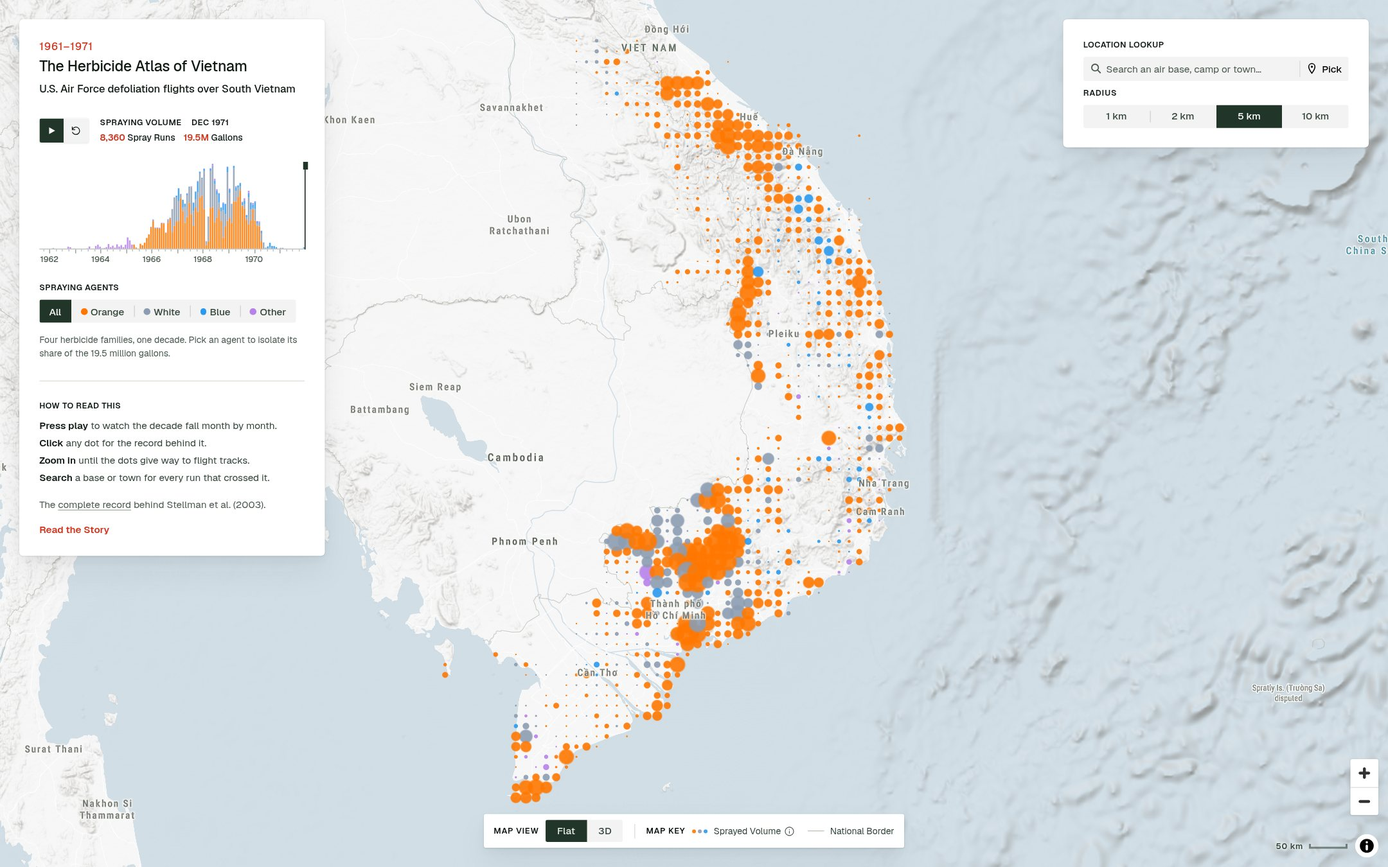
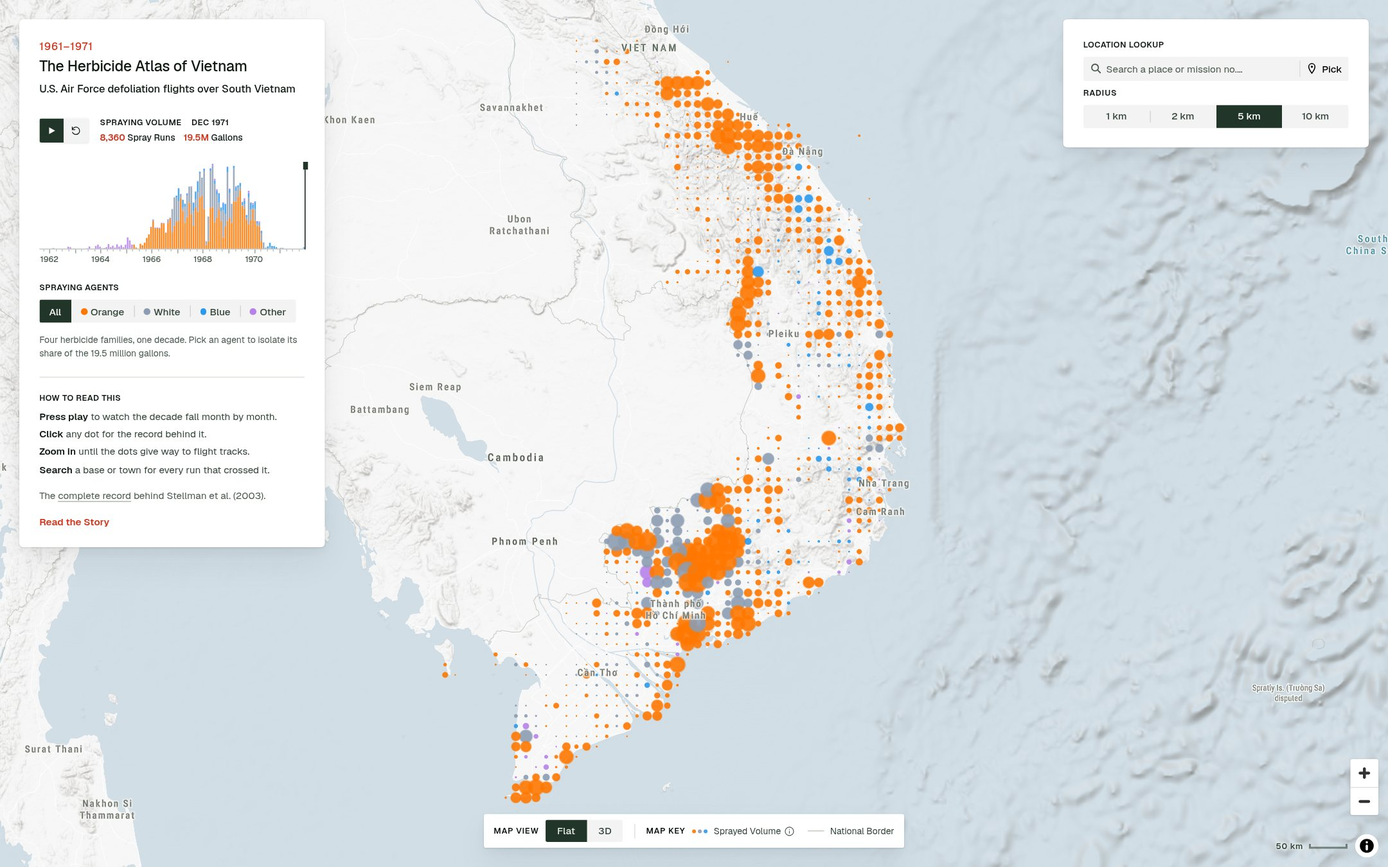
Methods paper: the per-mission spread and the caveat are applied
Master now spreads each mission's volume across every track it flew
(#185), so the paper stops describing that as a pending correction.
Section 4.2 describes the build as it ships, 4.3 records what changed
and by how much, Tables 3 to 5 and Figure 1 carry the recomputed
numbers (59% to move at 3 km, 63% of dosed cells read as zero, ±14%
envelope; 2,181 runs, 37%, 526 / 1,018 cells, 496 rings), the heat
reference is 1,925 gallons, and Section 8 records the old caveat and
its replacement. Section 6.6 gains the mission search. Atlas figures
re-captured on the merged build; Figure 5 shows the corrected caveat.

Claude-Session: https://claude.ai/code/session_0162ZbwK7cUKGE1rpfdzmk7Z

diff --git a/docs/methods-paper.md b/docs/methods-paper.md
@@ -12,11 +12,11 @@ Source and analysis scripts: <https://github.com/Cypherixc/remedial-vietnam>.
 
 ## Abstract
 
-*A Decade of Rain* is a scroll-driven narrative of Operation Ranch Hand, and *The Herbicide Atlas of Vietnam* is an interactive explorer of the same record: a playable decade, three zoom-dependent encodings of the spray volume, an agent filter, and a place lookup that returns the individual runs that passed within a chosen radius. Both are drawn from one dataset, the HERBS file as republished in Andrew Stellman's open `hea-v` repository, pinned to a single commit.
+*A Decade of Rain* is a scroll-driven narrative of Operation Ranch Hand, and *The Herbicide Atlas of Vietnam* is an interactive explorer of the same record: a playable decade, three zoom-dependent encodings of the spray volume, an agent filter, and a lookup that returns the individual runs that passed within a chosen radius of a place, or the runs of a given HERBS mission number. Both are drawn from one dataset, the HERBS file as republished in Andrew Stellman's open `hea-v` repository, pinned to a single commit.
 
-This note documents how that record becomes a picture. It has one substantive finding. The HERBS file books each mission's entire volume against a single row, the first waypoint of its first run, while recording the aircraft's track as a chain of further waypoints; the median run is an 11 km polyline. A map drawn directly from the file's fields therefore places a run's whole volume in the one cell containing one end of it. Measured over the whole record, turning that "booked" field into one in which the volume is spread along the flown track requires physically relocating 58% of all gallons at a 3 km cell, and leaves 59% of cells that received herbicide reading as zero. Within the family of readings the record itself admits (the herbicide fell somewhere along the recorded track) the answer is stable to about ±15% at 3 km under rate profiles far more extreme than an aircraft is likely to have flown; the booked reading sits roughly four times outside that envelope. Both shipped surfaces therefore draw the record as lines, with totals conserved to the gallon.
+This note documents how that record becomes a picture. It has one substantive finding. The HERBS file books each mission's entire volume against a single row, the first waypoint of its first run, while recording the aircraft's track as a chain of further waypoints; the median run is an 11 km polyline. A map drawn directly from the file's fields therefore places a mission's whole volume in the one cell containing one end of its first track. Measured over the whole record, turning that "booked" field into one in which the volume is spread along the flown tracks requires physically relocating 59% of all gallons at a 3 km cell, and leaves 63% of cells that received herbicide reading as zero. Within the family of readings the record itself admits (the herbicide fell somewhere along the recorded track) the answer is stable to about ±14% at 3 km under rate profiles far more extreme than an aircraft is likely to have flown; the booked reading sits roughly four times outside that envelope. Both shipped surfaces therefore draw the record as lines, with totals conserved to the gallon.
 
-The note also records the georeferencing, the run reconstruction, every encoding constant, the checks that hold them together, and the limits of what the maps can be asked. It closes with the specific questions we would value your judgement on, including two we found while writing it: the tape's own documentation books volume per mission rather than per spray track, which the current pipeline does not yet exploit (a 4.8% correction at 3 km), and the file contains helicopter and ground records that one of the Atlas's caveats currently denies.
+The note also records the georeferencing, the run reconstruction, every encoding constant, the checks that hold them together, and the limits of what the maps can be asked. It closes with the specific questions we would value your judgement on, including two we found while writing it and have since acted on: the tape's own documentation books volume per mission rather than per spray track, so the pipeline now spreads each mission's load across every track it flew (a 4.8% correction at 3 km, Section 4.3), and the file contains helicopter and ground records that one of the Atlas's caveats denied until this draft (Section 8).
 
 ---
 
@@ -104,7 +104,7 @@ The 1985 layout says the same in the tape's own words. Columns 60 and 61 "identi
 
 The layout defines the gallons field (columns 29 to 33) as the "number of gallons of herbicide dispensed during the mission cited": a per-mission quantity. The tape carries no per-track volume. Three further measurements in the file say the same. First, the 2,132 runs that have no `1A` row (the second and later runs of multi-run missions) carry no volume, all of them. Second, among fixed-wing missions with a recorded aircraft count, the median volume per aircraft is 1,000 gallons for missions of one, two, four and six runs, and 925 and 967 for three and five (n = 5,896 missions; overall p25 900, p75 1,000; median three aircraft). A C-123's spray tank held 1,000 gallons. Third, a worked example: Mission 136, 18 January 1965, Agent Purple, two aircraft, is recorded as Run 138 (legs 1A and 1B; 2,000 gallons on 1A) and Run 139 (legs 2A and 2B; 0 gallons).
 
-So the file books a mission's whole load once, against the first waypoint of its first track, which is what its documentation says it does. The 2,913 runs with no volume anywhere are of two kinds: 2,132 later runs of multi-run missions whose load is on the mission's lead row, and 781 lead runs that record a flight and no gallons. **8,360 runs carry volume**, and that is the count the Atlas shows as *Spray Runs*.
+So the file books a mission's whole load once, against the first waypoint of its first track, which is what its documentation says it does. The 2,913 runs with no volume anywhere are of two kinds: 2,132 later runs of multi-run missions whose load is on the mission's lead row, and 781 lead runs that record a flight and no gallons. **8,360 missions carry volume**, one lead row each, and that is the count the Atlas shows as *Spray Runs* (Section 8). On the map, after the per-mission spread of Section 4.3, 10,205 of the 11,273 runs carry a share of it.
 
 This booking is an accounting convention. It is not a statement about where herbicide landed, and a map drawn straight from these fields inherits the convention without saying so. Section 5 measures what that costs.
 
@@ -130,17 +130,19 @@ Splitting at a leg-number change affects 176 runs. Section 2.3 now suggests that
 
 ### 4.2 Spreading the volume
 
-The source carries no per-waypoint quantity, so volume can only be spread along a track geometrically. We spread each run's gallons along its own segments **in proportion to length**, on the physical argument that an aircraft with the valve open lays down a roughly constant amount per kilometre. Each segment's share is rounded to a whole gallon; the build asserts that the gallons leaving by the two doors (spread along tracks, or parked on single-point records) equal the gallons that came in, to within one gallon per rounded segment. At the pinned commit the balance is 19,490,688 out against 19,490,690 in.
+The source carries no per-waypoint quantity, so volume can only be spread along a track geometrically. We spread each mission's gallons along all of the line tracks that mission flew **in proportion to length**, on the physical argument that an aircraft with the valve open lays down a roughly constant amount per kilometre, and that the spray system was calibrated to a rate per area rather than a share per track. Each segment's share is rounded to a whole gallon; the build asserts that the gallons leaving by the two doors (spread along tracks, or parked on single-point records) equal the gallons that came in, to within one gallon per rounded segment. At the pinned commit the balance is 19,490,688 out against 19,490,690 in.
 
-A run logged at several grid references but with no measurable length keeps its gallons split evenly by count across its points, with the remainder on the first. (An earlier version handed every such point the run's full volume; the guard above is what caught the 22,018-gallon double count.)
+A single-point record inside a mission that also flew line tracks has no length to take a share of and takes none (107 such points, 71,220 gallons, 0.37% of the record, now on their sibling lines). A mission with no measurable length at all keeps its gallons split evenly by count across its points, with the remainder on the first. (An earlier version handed every such point the run's full volume; the guard above is what caught the 22,018-gallon double count.)
 
-The quantity this yields, **gallons per kilometre**, is the first quantity in the record that is comparable *between* runs: a 40 km run and a 2 km run carrying the same load did very different things to the ground beneath them. Over the 7,047 segments that carry volume it runs p10 52, median 189, p90 485, maximum 9,074 gal/km. Over all 8,753 line segments including those with none, the distribution the stroke widths were set against, it is p25 36, median 162, p75 288, p90 442, p99 1,143.
+The quantity this yields, **gallons per kilometre**, is the first quantity in the record that is comparable *between* runs: a 40 km run and a 2 km run carrying the same load did very different things to the ground beneath them. Over the 8,514 segments that carry volume it runs p10 43, median 174, p90 393, maximum 9,074 gal/km. Over all 8,753 line segments including the 239 with none, the distribution the stroke widths were set against, it is p25 101, median 171, p75 263, p90 389, p99 871.
 
-### 4.3 A refinement found while writing this note: spreading per mission
+### 4.3 A correction found while writing this note: spreading per mission, not per run
 
-The pipeline spreads a *run's* gallons along that *run*. Section 2.4 says the gallons are booked per *mission*, on its first run. For the 1,434 missions with more than one run (15.7% of missions, carrying 3,260,414 gallons, 16.7% of the volume), the current reading therefore concentrates the mission's whole load on its first run and gives the later runs nothing, when by the same physical argument it should be spread along all of them. In those missions the run carrying the gallons is about half the mission's flown length (9,464 km of 19,259 km).
+Until this draft the pipeline spread a *run's* gallons along that *run*. Section 2.4 says the gallons are booked per *mission*, on its first run. For the 1,434 missions with more than one run (15.7% of missions, carrying 3,260,414 gallons, 16.7% of the volume), that reading concentrated the mission's whole load on its first run and gave the later runs nothing, when by the same physical argument it should be spread along all of them. In those missions the run carrying the gallons is about half the mission's flown length (9,464 km of 19,259 km), and 11% of all flown kilometres sat in a no-volume tier that the Atlas hides by default.
 
-We measured what the correction changes, with the same sampling scheme as Section 5 (`scripts/analyse-mission-spread.mjs`; Appendix C). Spreading per mission instead of per run moves **4.8%** of the volume at a 3 km cell, **2.4%** at 13 km and **1.2%** at 28 km; the number of 3 km cells with volume rises from 7,095 to 7,583 and the peak cell is unchanged (ratio 0.99). It is a real correction and a small one, an order of magnitude below the effect of the booking convention itself (58.8% at 3 km against per-mission spreading) and inside the sensitivity envelope of Section 5.4. It has not yet been applied to the shipped files. Now that the tape's own layout confirms the reading, we intend to apply it; Section 9, question 1 asks only whether spreading by length across a mission's tracks is the reading you would consider defensible.
+We measured what the correction changes, with the same sampling scheme as Section 5 (`scripts/analyse-mission-spread.mjs`; Appendix C). Spreading per mission instead of per run moves **4.8%** of the volume at a 3 km cell, **2.4%** at 13 km and **1.2%** at 28 km; the number of 3 km cells with volume rises from 7,095 to 7,583 and the peak cell is unchanged (ratio 0.99). It is a real correction and a small one, an order of magnitude below the effect of the booking convention itself (58.8% at 3 km against per-mission spreading) and inside the sensitivity envelope of Section 5.4.
+
+Now that the tape's own layout confirms the reading, it is applied: Section 4.2 describes the build as it now ships. On the map the line tracks with no volume fall from 1,706 (11,835 km) to 239 (2,193 km), 1,467 later tracks carry a share for the first time, and over the Zone D window of Figure 1 the number of runs drawn rises from 1,959 to 2,181. Mission 167, for instance, four tracks on 1 April 1965: 3,000 / 0 / 0 / 0 gallons becomes 627 / 627 / 899 / 846. We chose by-length over an equal split because the spray system metered a rate per area and track lengths inside a mission differ (longest to shortest, median 1.44, p90 4.1); the two splits differ by 1.3% of volume at 3 km. Section 9, question 1 asks whether this is the reading you would consider defensible.
 
 ---
 
@@ -152,8 +154,8 @@ Everything in this section is reproducible with `node scripts/analyse-binning.mj
 
 | | What it does | What it claims |
 |---|---|---|
-| **Booked at 1A** | the whole run's gallons in the cell holding its first waypoint | this is where the archive keeps its accounts |
-| **Spread along the run** | gallons per kilometre × length, distributed along the flown track | this is where the herbicide fell |
+| **Booked at 1A** | the whole mission's gallons in the cell holding the first waypoint of its first track | this is where the archive keeps its accounts |
+| **Spread along the run** | gallons per kilometre × length, distributed along every track the mission flew | this is where the herbicide fell |
 
 Both carry the identical total, 19.491 million gallons. Nothing is created or lost. **The disagreement between them is purely spatial.** A statement about a national or provincial total is unaffected by the choice; every statement about a *place* depends on it entirely.
 
@@ -169,13 +171,13 @@ For a cell size *d* we sample each run's track at intervals no larger than a thi
 
 | Cell | Cells with volume | Volume to move | Peak cell ratio |
 |---|---|---|---|
-| 1 km | 5,027 → 34,276 | 82% | 2.46× |
-| **3 km** | **3,033 → 7,101** | **58%** | **2.53×** |
-| 7 km | 1,793 → 2,697 | 42% | 1.90× |
-| **13 km** | **846 → 979** | **26%** | **1.11×** |
-| 28 km | 289 → 308 | 11% | 0.98× |
-| 56 km | 97 → 101 | 5% | 0.99× |
-| 111 km | 38 → 39 | 2% | 0.99× |
+| 1 km | 4,880 → 37,257 | 83% | 2.46× |
+| **3 km** | **2,960 → 7,620** | **59%** | **2.51×** |
+| 7 km | 1,761 → 2,835 | 43% | 1.91× |
+| **13 km** | **839 → 1,017** | **26%** | **1.11×** |
+| 28 km | 289 → 313 | 12% | 0.99× |
+| 56 km | 97 → 102 | 5% | 0.99× |
+| 111 km | 38 → 40 | 2% | 0.98× |
 
 The disagreement dies at the scale of a run. Above about 28 km a run stays inside its own cell and the booking convention stops mattering; below it, the convention decides the map. The consequence is the reverse of what a reader expects: the booked reading is nearly right on a thumbnail of the whole country and worst at the scale where someone looks closely.
 
@@ -183,15 +185,15 @@ The disagreement dies at the scale of a run. Above about 28 km a run stays insid
 
 | Cell | Mean | Mean abs. difference | Relative | Dosed cells read as 0 | More than 2× out | Spearman |
 |---|---|---|---|---|---|---|
-| 1 km | 466 | 762 | 163% | 86% | 97% | 0.09 |
-| **3 km** | **248** | **286** | **115%** | **59%** | **83%** | **0.33** |
-| 7 km | 163 | 137 | 84% | 35% | 65% | 0.57 |
-| 13 km | 113 | 58 | 51% | 15% | 41% | 0.81 |
-| 28 km | 83 | 19 | 23% | 6% | 18% | 0.95 |
-| 56 km | 64 | 7 | 10% | 4% | 9% | 0.98 |
-| 111 km | 41 | 2 | 4% | 3% | 3% | 0.99 |
+| 1 km | 430 | 714 | 166% | 88% | 97% | 0.11 |
+| **3 km** | **232** | **273** | **118%** | **63%** | **85%** | **0.34** |
+| 7 km | 156 | 134 | 86% | 39% | 70% | 0.56 |
+| 13 km | 109 | 57 | 53% | 19% | 46% | 0.80 |
+| 28 km | 82 | 19 | 24% | 8% | 20% | 0.95 |
+| 56 km | 63 | 7 | 11% | 5% | 9% | 0.98 |
+| 111 km | 40 | 2 | 4% | 5% | 5% | 0.99 |
 
-At 3 km, the Atlas's fine cell, the difference between the readings is larger than the quantity being mapped, and 59% of cells that received herbicide read as zero under the booked reading. The rank correlation is 0.33: the booked field does not merely misstate how much, it fails to order which place received more.
+At 3 km, the Atlas's fine cell, the difference between the readings is larger than the quantity being mapped, and 63% of cells that received herbicide read as zero under the booked reading. The rank correlation is 0.34: the booked field does not merely misstate how much, it fails to order which place received more.
 
 ### 5.4 The argument, given that there is no ground truth
 
@@ -203,15 +205,15 @@ Spreading along the run assumes a constant rate, which is an assumption. So we p
 
 | Cell | 2× front-loaded | 2× back-loaded | Middle-heavy | Ends-heavy | **Booked at 1A** |
 |---|---|---|---|---|---|
-| 3 km | 15% | 15% | 7% | 7% | **58%** |
+| 3 km | 14% | 14% | 7% | 7% | **59%** |
 | 13 km | 8% | 8% | 2% | 2% | **26%** |
-| 28 km | 3% | 3% | 1% | 1% | **11%** |
+| 28 km | 3% | 3% | 1% | 1% | **12%** |
 
-This is the finding. Within the family of readings the record admits, the answer is settled to about ±15% at 3 km under profiles far more extreme than anything Ranch Hand is likely to have flown. Booking everything at the first waypoint sits roughly four times outside that entire envelope. It is not one plausible reading among several: it lies outside the range of readings compatible with the aircraft having flown the track the record itself supplies, because it requires that eleven kilometres of a spraying run received nothing.
+This is the finding. Within the family of readings the record admits, the answer is settled to about ±14% at 3 km under profiles far more extreme than anything Ranch Hand is likely to have flown. Booking everything at the first waypoint sits roughly four times outside that entire envelope. It is not one plausible reading among several: it lies outside the range of readings compatible with the aircraft having flown the track the record itself supplies, because it requires that eleven kilometres of a spraying run received nothing.
 
-Figure 1 shows the two readings over one window, Zone D and Đồng Xoài, the densest linear structure in the record: 1,959 runs, the same 3 km cells and the same dot-area scale in both panels. In that window 36% of the volume fell in cells the booked reading shows as empty, and the booked reading's hottest cell is 3.1× hotter than any ground actually was (528 cells carrying volume, peak 95K gallons, against 1,009 cells and a peak of 30K).
+Figure 1 shows the two readings over one window, Zone D and Đồng Xoài, the densest linear structure in the record: 2,181 runs, the same 3 km cells and the same dot-area scale in both panels. In that window 37% of the volume fell in cells the booked reading shows as empty, and the booked reading's hottest cell is 3.1× hotter than any ground actually was (526 cells carrying volume, peak 95K gallons, against 1,018 cells and a peak of 31K).
 
-![Figure 1. The record as recorded (left), the volume booked at waypoint 1A (centre) and the volume spread along the run (right), Zone D and Đồng Xoài. Rings on the centre panel mark the 486 cells that were dosed and that reading leaves empty.](figures/binning-comparison.svg)
+![Figure 1. The record as recorded (left), the volume booked at the mission's first waypoint (centre) and the volume spread along the mission's tracks (right), Zone D and Đồng Xoài. Rings on the centre panel mark the 496 cells that were dosed and that reading leaves empty.](figures/binning-comparison.svg)
 
 ---
 
@@ -268,9 +270,9 @@ Hovering names a run's gallons and gallons per kilometre; clicking opens its car
 
 ### 6.4 The Story: a density field binned from the same lines
 
-The Story's field is built by `scripts/build-story-heat.mjs` from the line file into the same 0.03° cell the Atlas's fine tier uses, split by month because the Story's heat layer filters on the playhead and month is the resolution it steps in. The result is 21,711 (cell, month) points over 20,959 cells, carrying the record's total to the gallon, and *smaller* than the 24,604-waypoint file it replaced, because binning 8,753 runs into shared cells collapses more than sampling them adds. Each point sits at the volume-weighted centroid of the samples that made it, not at the cell's geometric centre: a point at the centre put the whole field on a lattice, and at the Story's deep zooms it rendered as graph paper; a cell clipped by one straight run now gets its point on that run.
+The Story's field is built by `scripts/build-story-heat.mjs` from the line file into the same 0.03° cell the Atlas's fine tier uses, split by month because the Story's heat layer filters on the playhead and month is the resolution it steps in. The result is 23,729 (cell, month) points over 22,930 cells, carrying the record's total to the gallon, and *smaller* than the 24,604-waypoint file it replaced, because binning 8,753 runs into shared cells collapses more than sampling them adds. Each point sits at the volume-weighted centroid of the samples that made it, not at the cell's geometric centre: a point at the centre put the whole field on a lattice, and at the Story's deep zooms it rendered as graph paper; a cell clipped by one straight run now gets its point on that run.
 
-The field is a MapLibre heatmap layer. Each point's weight is √(gallons / ref) clamped to [0, 1], with *ref* the 90th percentile of the cell-month totals, 2,068 gallons, derived at build time rather than typed so that most cells land in the ramp's working range and only the heaviest saturate; the square root is there for the same reason the dots take one, because a blob's visual weight goes with its area. The kernel radius is set from the data's resolution: the cell is 0.0217 × 2^z pixels at 11°N, and a kernel narrower than its sample spacing does not smooth, it draws the samples. The radius stops (3 px at zoom 5, 12 at 8, 46 at 10, 180 at 12) track 0.043 × 2^z, about two cells, which is what it took on the page for the field to read as continuous. The intensity ramp is nearly flat (0.80 at zoom 5 to 0.85 at 10): since the kernel now covers a fixed ground area, the number of points inside it does not change with zoom, so the intensity should not either. The colour ramp runs from transparent through `rgb(255,84,73)` to `rgb(214,54,40)` at full density, staying warm at the core rather than darkening to grey. Layer opacity is 0.8.
+The field is a MapLibre heatmap layer. Each point's weight is √(gallons / ref) clamped to [0, 1], with *ref* the 90th percentile of the cell-month totals, 1,925 gallons, derived at build time rather than typed so that most cells land in the ramp's working range and only the heaviest saturate; the square root is there for the same reason the dots take one, because a blob's visual weight goes with its area. The kernel radius is set from the data's resolution: the cell is 0.0217 × 2^z pixels at 11°N, and a kernel narrower than its sample spacing does not smooth, it draws the samples. The radius stops (3 px at zoom 5, 12 at 8, 46 at 10, 180 at 12) track 0.043 × 2^z, about two cells, which is what it took on the page for the field to read as continuous. The intensity ramp is nearly flat (0.80 at zoom 5 to 0.85 at 10): since the kernel now covers a fixed ground area, the number of points inside it does not change with zoom, so the intensity should not either. The colour ramp runs from transparent through `rgb(255,84,73)` to `rgb(214,54,40)` at full density, staying warm at the core rather than darkening to grey. Layer opacity is 0.8.
 
 Eight nodes drive the field, each with a camera and a playhead date up to which the field is shown cumulatively: the test sprays (1961–62, shown as labelled points because the 1961 rows carry no volume), War Zone D (to August 1966), War Zone C and the Iron Triangle (to October 1967), the mangroves (to September 1968), the A Sầu valley (to August 1969, zoom 8.6), the three hotspot airbases (to January 1971, zoom 9.6), the reckoning (the whole decade), and a final node that switches the same map to the flight tracks as a handover to the Atlas.
 
@@ -282,9 +284,11 @@ Dates are epoch day numbers with 1 January 1961 as day 1, matching `hea-v`'s own
 
 ### 6.6 The place lookup
 
-A reader can search a place or drop a pin, choose a radius of 1 to 10 km (default 5), and read the runs whose recorded geometry passed within it (`src/components/lookup.ts`). Distance is point-to-geometry: for a track, the minimum distance from the query point to any of its segments, because the aircraft passed the whole line and not just its vertices; for a single-point record, plain distance. The unit of answer is the run, keyed by `Mission` + `Run`, because that is the unit of the source: a run drawn as three segments is still one flight and appears once. Each hit reports the run's *whole* recorded volume, all its segments included, with the caveat on screen that this is the run's logged volume booked at its first waypoint and not the share that fell inside the circle, which the source cannot answer.
+A reader can search a place or drop a pin, choose a radius of 1 to 10 km (default 5), and read the runs whose recorded geometry passed within it (`src/components/lookup.ts`). Distance is point-to-geometry: for a track, the minimum distance from the query point to any of its segments, because the aircraft passed the whole line and not just its vertices; for a single-point record, plain distance. The unit of answer is the run, keyed by `Mission` + `Run`, because that is the unit of the source: a run drawn as three segments is still one flight and appears once. Each hit reports the run's *whole* volume, all its segments included, with the caveat on screen that this is the run's share of its mission's logged volume, spread along the track by length, and not the share that fell inside the circle, which the source cannot answer.
 
-The answer is told in three layers: one sentence ("32 runs within 5 km of Biên Hòa"), then its shape (gallons or run counts by agent and by year), then the records themselves behind a fold, each cited as M·R with its date, agent and distance, so the answer is checkable against HERBS. Two texts are fixed and load-bearing: the empty state ("No fixed-wing spray records in this range. That does not mean the area was not sprayed.") and the caveat under every answer. Section 8 notes that the caveat's wording needs correcting.
+The answer is told in three layers: one sentence ("32 runs within 5 km of Biên Hòa"), then its shape (gallons or run counts by agent and by year), then the records themselves behind a fold, each cited as M·R with its date, agent and distance, so the answer is checkable against HERBS. Two texts are fixed and load-bearing: the empty state ("No fixed-wing spray records in this range. That does not mean the area was not sprayed.") and the caveat under every answer, which now reads "Every HERBS record, not only Ranch Hand: fixed-wing flights carry 95% of the gallons, helicopter and ground spraying the rest." (Section 8 records what it said before.)
+
+The same box answers a HERBS mission number (`4493`, `M4493`, `#4493`), which is the unit the record books volume in and the citation a reader of Stellman et al. is most likely to hold. The answer is the mission's runs in the same table, with length in place of distance, above it the mission's date, agent, aircraft count, logged gallons and total track length, and on the map the runs drawn in the highlight's own language (flat colour, the stroke at its own width plus the highlight's bump, a ring around a single-point run) rather than the record's, because at the record's weight a 2,000-gallon point was a pale mark on bare paper. Mission numbers run from 1 to 13,027 and not every number is used; the lookup says so when a number is absent.
 
 ![Figure 5. The lookup: 32 runs within 5 km of Biên Hòa Air Base, the shape of the answer by agent and by year, the caveat, and the records behind a fold.](figures/atlas-lookup.jpg)
 
@@ -319,10 +323,10 @@ The shipped pages are checked by a headless-browser regression suite of some fif
 - **Straight-line interpolation** between consecutive waypoints, at a median 2.63 km spacing, short relative to the cells.
 - **The record is not a survey.** It is what was filed. Runs flown and never recorded are absent from every reading here.
 - **Direction is not known.** The fade runs from the first waypoint on file. Whether the aircraft flew 1A→1B or the clerk listed them in another order is not in the record.
-- **Booking per mission is not yet applied** (Section 4.3): a 4.8% correction at 3 km, to be applied.
-- **Helicopter and ground records are in the file and on the map.** The Atlas's lookup caveat reads "Fixed-wing (Ranch Hand) records only. No helicopter, ground or base-perimeter spraying." By our reading of `Method`, the file contains 2,794 helicopter runs (733,262 gallons, 3.8%) and 637 ground runs (48,312 gallons), and the pipeline draws all of them. The caveat was written from the record's reputation rather than measured against it and will be corrected. The 1985 report says the original HERBS tape "lacks important information on most of the helicopter spray missions prior to 1968" and "has no information whatsoever" on ground and backpack spraying, which the Services HERBS supplement set out to add; how complete the supplement is remains the question (Section 9, question 4).
+- **Booking per mission was applied late** (Section 4.3): until this draft the map spread each run's gallons along that run alone, so the later tracks of a multi-track mission carried nothing. A 4.8% correction at 3 km, now in the shipped files.
+- **Helicopter and ground records are in the file and on the map.** Until this draft the Atlas's lookup caveat read "Fixed-wing (Ranch Hand) records only. No helicopter, ground or base-perimeter spraying." By our reading of `Method`, the file contains 2,794 helicopter runs (733,262 gallons, 3.8%) and 637 ground runs (48,312 gallons), and the pipeline draws all of them. The caveat was written from the record's reputation rather than measured against it; it now reads "Every HERBS record, not only Ranch Hand: fixed-wing flights carry 95% of the gallons, helicopter and ground spraying the rest." The 1985 report says the original HERBS tape "lacks important information on most of the helicopter spray missions prior to 1968" and "has no information whatsoever" on ground and backpack spraying, which the Services HERBS supplement set out to add; how complete the supplement is remains the question (Section 9, question 4).
 - **Some code meanings are unconfirmed**: `Method` S, `Source` A, `Agent` K, the `CTZ` values 5, 6 and 7, and the three subfields of `FWAC` are not in the 1985 layout.
-- **The count of runs** is the count of runs with recorded volume (8,360), not of flights (11,273). The card and the panel say "Spray Runs" and "Sprayings" for that reason.
+- **The count of runs** on the panel (8,360) is the count of lead rows with recorded volume, which is the count of missions that logged any, not of flights (11,273) and no longer of runs drawn with volume (10,205 after Section 4.3). The card and the panel say "Spray Runs" and "Sprayings" for that reason; the label is due a rethink.
 - **Quantised references make runs share waypoints.** Over Đồng Xoài at zoom 9.7, 3,084 track endpoints fall in 2,262 four-pixel bins and the busiest holds 33; this is why endpoint markers are off by default and why the direction cue is a fade in the stroke's own paint rather than a bead.
 - **The province and region furniture is modern.** The Corps Tactical Zones are dissolved from today's provinces and are close to, not identical with, the wartime lines. `Province` in the file is blank on two-thirds of rows and is not used.
 - **A vegetation overlay was attempted and abandoned.** Overlaying the runs on a hand-traced redraw of the 1974 vegetation map reproduced the literature's total sprayed area (about 1.6 million hectares) but not its per-class anchors, because every georeferencing method tried on a map with no datum plateaued at a 20 to 30 km residual. The Story's ecosystem figure therefore uses literature values and marks the rest as estimates.
@@ -332,7 +336,7 @@ The shipped pages are checked by a headless-browser regression suite of some fif
 
 ## 9 · Questions for the authors of the record
 
-1. **Spreading across tracks.** The 1985 layout confirms that gallons are recorded per mission and that a successive track number is a further spray track flown on the same mission. Is spreading that load by length across all of the mission's tracks the reading you would consider defensible, or did the load typically go down on the first track?
+1. **Spreading across tracks.** The 1985 layout confirms that gallons are recorded per mission and that a successive track number is a further spray track flown on the same mission. The shipped maps now spread that load by length across all of the mission's tracks (Section 4.3). Is that the reading you would consider defensible, or did the load typically go down on the first track?
 2. **Codes the 1985 layout does not list.** What do `Method` S, `Source` A, `Agent` K (the layout lists Pink as R and Pink & Green as S) and `CTZ` 5 / 6 / 7 denote? What are the three two-digit fields of `FWAC` (we read the last as the number of aircraft that sprayed)?
 3. **Rate along the track.** Is there anything in the operational record (spray-on and spray-off points, altitude, airspeed, swath width) that would argue for a rate profile other than constant, or for a swath we should draw?
 4. **Helicopter and ground coverage.** Should the helicopter and ground records in the file be mapped alongside the Ranch Hand runs as we now do, or are they incomplete enough that the map should carry a stronger caveat or a separate treatment?
@@ -388,7 +392,7 @@ The shipped pages are checked by a headless-browser regression suite of some fif
 | Dot radius | max(floor, min(k√g, cap)); Table 7 |
 | Stroke width | min(k·gpk, cap); k 0.8/162 → 3/162, cap 4 → 14 px over zoom 5.6 → 11 |
 | Stroke opacity / feather / fade | 0.8 / 1.5 px / alpha 1 → 0.3 from first waypoint |
-| Heat weight | √(g / 2,068), clamped to [0, 1] |
+| Heat weight | √(g / 1,925), clamped to [0, 1] |
 | Heat radius | 3, 12, 46, 180 px at zoom 5, 8, 10, 12 (≈ 0.043 × 2^z) |
 | Heat intensity / opacity | 0.80 → 0.85 / 0.8 |
 | Agent hues | `#ff7700` `#8c9cb1` `#2b99ee` `#b781ea`; dim `#c9cdc4` |
@@ -397,7 +401,7 @@ The shipped pages are checked by a headless-browser regression suite of some fif
 
 ## Appendix C · The per-mission comparison
 
-`scripts/analyse-mission-spread.mjs` groups rows by `Mission`, segments each `Mission`+`Run` exactly as the track build does, and produces three fields at each cell size: gallons spread along each run's own segments (the shipped reading), gallons spread along all of a mission's segments by length, and gallons booked at the mission's first waypoint. The three totals are identical (19,490,690). The volume-to-move figures are 4.8% / 2.4% / 1.2% between the first two at 3 / 13 / 28 km, and 58.8% / 26.3% / 11.8% between the booked field and the per-mission field, which reproduces Table 3 to within a rounding. The correction itself is not yet applied to the shipped files.
+`scripts/analyse-mission-spread.mjs` groups rows by `Mission`, segments each `Mission`+`Run` exactly as the track build does, and produces three fields at each cell size: gallons spread along each run's own segments (the shipped reading), gallons spread along all of a mission's segments by length, and gallons booked at the mission's first waypoint. The three totals are identical (19,490,690). The volume-to-move figures are 4.8% / 2.4% / 1.2% between the first two at 3 / 13 / 28 km, and 58.8% / 26.3% / 11.8% between the booked field and the per-mission field, which reproduces Table 3 to within a rounding. The correction is applied to the shipped files: `build-spray-tracks.mjs` groups by mission, and `analyse-binning.mjs` and `build-figure-binning.mjs` reconstruct the booked reading as the mission's total at the mission's first waypoint, so Tables 3 to 5 and Figure 1 compare the file's own convention with the map as it now ships.
 
 ---
 
